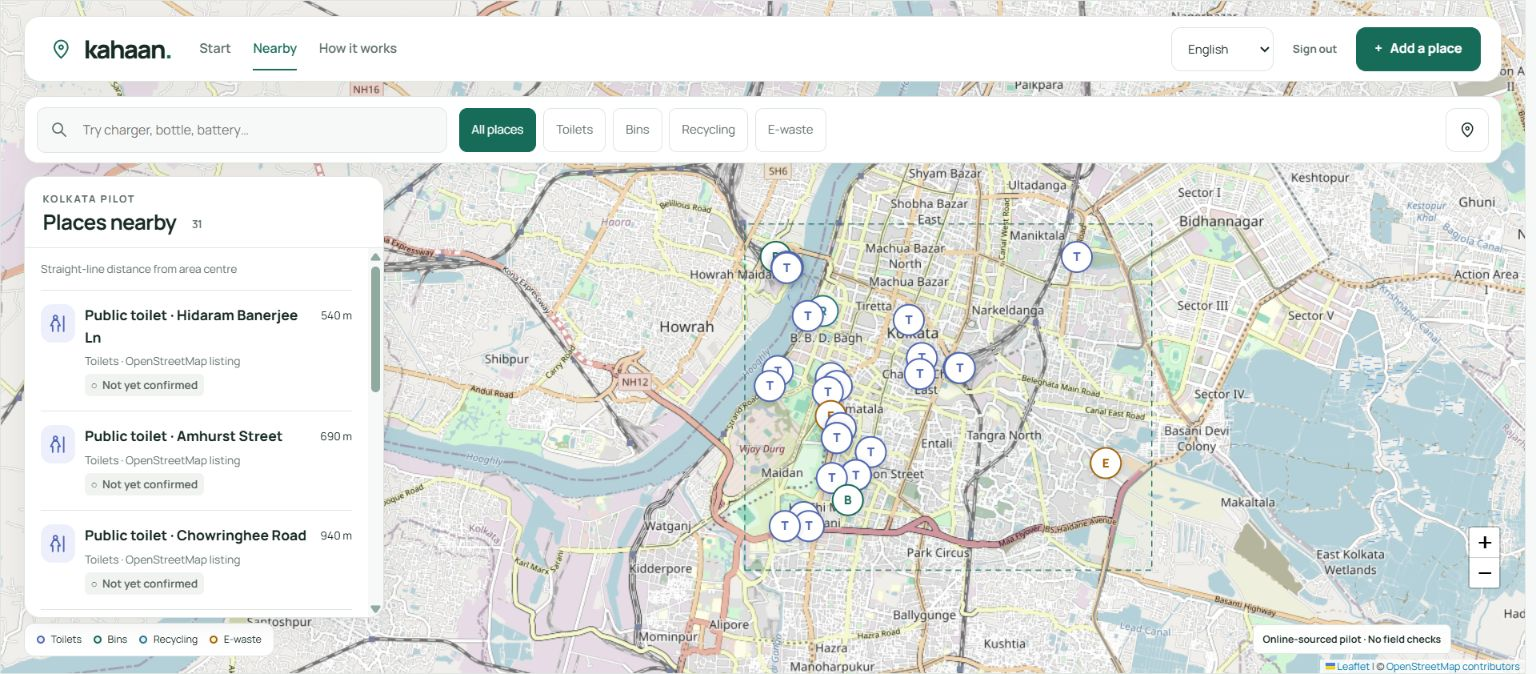
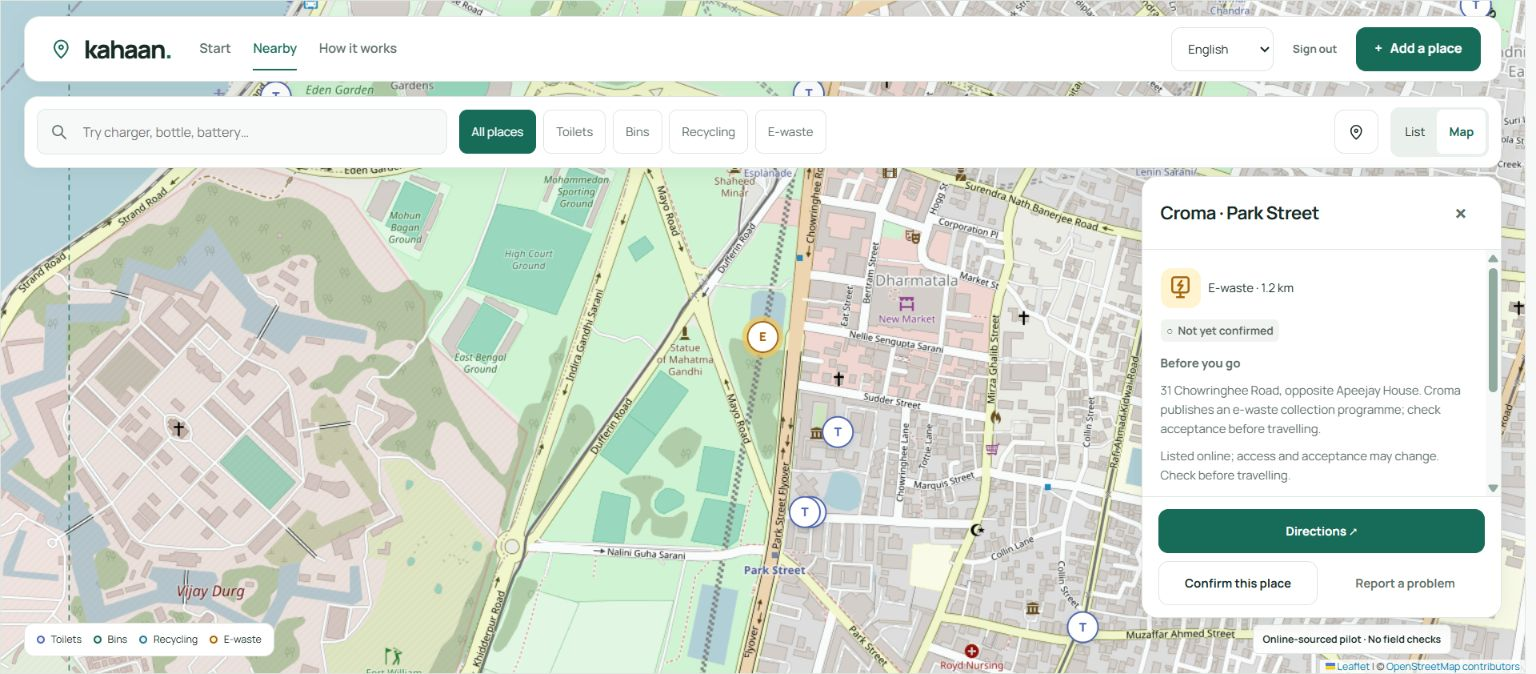
Fix Nearby mode dismissal, page scrolling and visible place actions

diff --git a/frontend/src/App.tsx b/frontend/src/App.tsx
@@ -63,6 +63,7 @@ export default function App() {
   const distance = (p: Point) => { const m = haversine(position, p); return m < 1000 ? `${new Intl.NumberFormat(locale).format(Math.round(m / 10) * 10)} m` : `${new Intl.NumberFormat(locale, { maximumFractionDigits: 1 }).format(m / 1000)} km`; };
   function choose(f: Filter) { setNotice(''); navigate('nearby', { filter: f, query: '' }); }
   function ensureUser(action: () => void) { if (user) action(); else { pending.current = action; setDetailOpen(false); setAuthOpen(true); } }
+  function switchView(next: 'list' | 'map') { setDetailOpen(false); setSelected(null); setView(next); }
   function pick(place: Place) { setView('map'); setSelected(place); setVoteError(''); setDetailOpen(true); }
   function update(place: Place) { setPlaces(old => old.some(p => p.placeId === place.placeId) ? old.map(p => p.placeId === place.placeId ? place : p) : [...old, place]); setSelected(place); }
   function locate() {
@@ -79,12 +80,13 @@ export default function App() {
   const sourceLabel = (place: Place) => t(place.source === 'osm' ? 'sourceOsm' : place.source === 'user' ? 'sourceCommunity' : 'sourcePublished');
   function placeRow(place: Place) { return <button key={place.placeId} className={`place-row ${selected?.placeId === place.placeId ? 'is-selected' : ''}`} onClick={() => pick(place)}><span className={`place-icon type-${place.type}`}><Icon type={place.type}/></span><span className="place-body"><span className="place-row-top"><strong>{place.name}</strong><span className="place-distance">{distance(place)}{place.approximate ? ' ≈' : ''}</span></span><span className="place-meta">{t(typeKeys[place.type])} · {sourceLabel(place)}</span><span className="place-trust"><Status place={place} locale={locale}/>{place.recommendable === false && <span className="access-note">{t('callFirst')}</span>}</span></span><span className="row-arrow" aria-hidden="true">↗</span></button>; }
   function searchBox(home = false) { return <form className={`search-area ${home ? 'home-search' : ''}`} noValidate onSubmit={e => { e.preventDefault(); navigate('nearby', {filter:'all'}); }}><label className="search-box"><Icon type="search" size={21}/><span className="sr-only">{t('search')}</span><input value={query} onChange={e => setQuery(e.target.value)} placeholder={t('placeholder')} type="search"/>{query && <button type="button" className="clear-search" aria-label={t('clear')} onClick={e => {setQuery('');e.currentTarget.parentElement?.querySelector('input')?.focus();}}>×</button>}{home && <Button type="submit" className="search-submit"><Icon type="arrow" size={20}/><span className="sr-only">{t('searchAction')}</span></Button>}</label><div className="quick-items">{['phone-charger','plastic-bottle','old-phone','aa-battery'].map(id => { const i = items.find(i => i.id === id); return i ? <button type="button" key={id} onClick={() => navigate('nearby', {query:itemText(i, locale).aliases[0] || itemText(i, locale).name,filter:'all'})}>{itemText(i, locale).aliases[0] || itemText(i, locale).name}</button> : null; })}</div></form>; }
-  function placeDetails(selected: Place) { return <><div className="detail-type"><span className={`place-icon type-${selected.type}`}><Icon type={selected.type}/></span><span>{t(typeKeys[selected.type])} · {distance(selected)}</span></div><Status place={selected} locale={locale}/><h3 className="section-label">{t('beforeGo')}</h3>{selected.note && <p className="facility-note">{selected.note}</p>}<p className="subtle">{t('caution')}</p>{selected.approximate && <p className="subtle">{t('approximate')}</p>}<h3 className="section-label">{t('communityChecks')}</h3><div className="vote-counts"><span>{selected.confirmCount} {t('confirms')}</span><span>{selected.reportCount} {t('reports')}</span></div>{selected.sourceUrl && <a className="source-link" href={selected.sourceUrl} target="_blank" rel="noreferrer">{t('source')} ↗ · {selected.researchDate || selected.sourceUpdatedAt?.slice(0, 10)}</a>}<p className="subtle">{t('trustHelp')}</p><p className="form-error" role="alert">{voteError && errorText(locale, voteError)}</p><div className="detail-actions"><a className="button" href={directionUrl(selected)} target="_blank" rel="noreferrer">{t('directions')} ↗</a><Button className="secondary" disabled={voteBusy} aria-busy={voteBusy} onClick={() => ensureUser(() => { setDetailOpen(true); void vote(selected, 'confirm'); })}>{voteBusy ? t('saving') : t('confirm')}</Button><Button className="text-button" disabled={voteBusy} onClick={() => ensureUser(() => { setDetailOpen(false); setVoteError(''); setReportOpen(true); })}>{t('report')}</Button></div></>; }
+  function placeDetails(selected: Place) { return <><div className="detail-type"><span className={`place-icon type-${selected.type}`}><Icon type={selected.type}/></span><span>{t(typeKeys[selected.type])} · {distance(selected)}</span></div><Status place={selected} locale={locale}/><h3 className="section-label">{t('beforeGo')}</h3>{selected.note && <p className="facility-note">{selected.note}</p>}<p className="subtle">{t('caution')}</p>{selected.approximate && <p className="subtle">{t('approximate')}</p>}{selected.sourceUrl && <a className="source-link" href={selected.sourceUrl} target="_blank" rel="noreferrer">{t('source')} ↗ · {selected.researchDate || selected.sourceUpdatedAt?.slice(0, 10)}</a>}<details className="community-details"><summary>{t('communityChecks')}</summary><div className="vote-counts"><span>{selected.confirmCount} {t('confirms')}</span><span>{selected.reportCount} {t('reports')}</span></div><p className="subtle">{t('trustHelp')}</p></details><p className="form-error" role="alert">{voteError && errorText(locale, voteError)}</p></>; }
+  function placeActions(selected: Place) { return <div className="detail-actions"><a className="button" href={directionUrl(selected)} target="_blank" rel="noreferrer">{t('directions')} ↗</a><Button className="secondary" disabled={voteBusy} aria-busy={voteBusy} onClick={() => ensureUser(() => { setDetailOpen(true); void vote(selected, 'confirm'); })}>{voteBusy ? t('saving') : t('confirm')}</Button><Button className="text-button" disabled={voteBusy} onClick={() => ensureUser(() => { setDetailOpen(false); setVoteError(''); setReportOpen(true); })}>{t('report')}</Button></div>; }
   const nav = <>{(['start','nearby','guide'] as const).map(page => <a key={page} href={routeHash({...route, screen:page})} aria-current={screen === page ? 'page' : undefined} onClick={e => {e.preventDefault();navigate(page);}}>{t(page === 'nearby' ? 'nearbyNav' : page)}</a>)}</>;
   return <>
     <a className="skip-link" href="#main-content" onClick={e => {e.preventDefault();screenHeading.current?.focus();}}>{t('skipContent')}</a>
     <header className={`site-header ${screen === 'nearby' ? 'map-header' : ''}`}><a className="brand" href="#/start" aria-label="Kahaan" onClick={e => {e.preventDefault();navigate('start');}}><span className="brand-mark"><Icon type="pin" size={23}/></span>kahaan<span className="brand-dot">.</span></a><nav className="desktop-nav" aria-label={t('navigation')}>{nav}</nav><div className="header-actions"><label className="locale-control"><span className="sr-only">{t('language')}</span><select aria-label={t('language')} value={locale} onChange={e => setLocale(e.target.value as Locale)}><option value="en">English</option><option value="bn">বাংলা</option><option value="hi">हिन्दी</option></select></label>{screen === 'nearby' && user && <Button className="text-button map-signout" onClick={() => void api.logout().then(() => setUser(null)).catch(() => setNotice('auth_error'))}>{t('signOut')}</Button>}<Button className="header-add" aria-label={t('add')} onClick={() => ensureUser(() => setAddOpen(true))}><span aria-hidden="true">+</span><span className="add-label">{t('add')}</span></Button></div></header>
-    <main id="main-content" className={`page-shell screen-${screen}`}>
+    <main id="main-content" className={`page-shell screen-${screen} ${screen === "nearby" ? `browse-${view}` : ""}`}>
       <div className="notice-region" aria-live="polite">{notice && <p className="notice">{t(notice as CopyKey)}</p>}</div>
       {screen === 'start' && loadError && <div className="home-load-error" role="alert"><p>{errorText(locale, loadError)}</p><Button className="secondary" onClick={() => void load()}>{t('retry')}</Button></div>}
       {screen === 'start' && <>
@@ -101,17 +103,17 @@ export default function App() {
           <div className="chips map-filters">{(['all', ...types] as const).map(f => <button className={filter === f ? 'chip-active' : ''} key={f} aria-pressed={filter === f} onClick={() => setFilter(f)}>{f === 'all' ? t('all') : t(typeKeys[f])}</button>)}</div>
           <label className="map-filter-select"><span className="sr-only">{t('type')}</span><select value={filter} onChange={e => setFilter(e.target.value as Filter)}>{(['all', 'bins', ...types] as const).map(f => <option key={f} value={f}>{f === 'all' ? t('all') : f === 'bins' ? t('bin') : t(typeKeys[f])}</option>)}</select></label>
           <Button className="secondary location-button" onClick={locate} disabled={locating} aria-busy={locating} aria-label={locating ? t('locating') : t('locate')}><Icon type="pin" size={18}/><span>{locating ? t('locating') : t('locate')}</span></Button>
-          <div className="view-switch"><button aria-pressed={view === 'list'} onClick={() => setView('list')}>{t('list')}</button><button aria-pressed={view === 'map'} onClick={() => setView('map')}>{t('map')}</button></div>
+          <div className="view-switch"><button aria-pressed={view === 'list'} onClick={() => switchView('list')}>{t('list')}</button><button aria-pressed={view === 'map'} onClick={() => switchView('map')}>{t('map')}</button></div>
         </div>
-        <section id="results" className="map-results-panel" aria-labelledby="results-title">
-          <div className="map-panel-heading"><div><span className="eyebrow">{t('pilotShort')}</span><h2 id="results-title">{t(filter === 'all' || filter === 'bins' ? 'nearby' : typeKeys[filter])} <span className="result-count">{new Intl.NumberFormat(locale).format(visible.length)}</span></h2></div><button className="sheet-toggle" aria-expanded={view === 'list'} onClick={() => setView(view === 'list' ? 'map' : 'list')}>{t(view === 'list' ? 'map' : 'list')} <Icon type="arrow" size={16}/></button></div>
+        {(view === "list" || query.trim() || loading || loadError) && <section id="results" className="map-results-panel" aria-labelledby="results-title">
+          <div className="map-panel-heading"><div><span className="eyebrow">{t('pilotShort')}</span><h2 id="results-title">{t(filter === 'all' || filter === 'bins' ? 'nearby' : typeKeys[filter])} <span className="result-count">{new Intl.NumberFormat(locale).format(visible.length)}</span></h2></div><button className="sheet-toggle" aria-expanded={view === 'list'} onClick={() => switchView(view === 'list' ? 'map' : 'list')}>{t(view === 'list' ? 'map' : 'list')} <Icon type="arrow" size={16}/></button></div>
           <div className="map-panel-content">
             {query.trim() && <section className="item-answer" aria-live="polite">{item ? <><div className="answer-main"><span className="category-label">{t(item.category as CopyKey)}</span><h2>{itemText(item, locale).name}</h2><p>{itemText(item, locale).tip}</p>{matches.length > 1 && <div className="quick-items">{matches.slice(1).map(i => <button key={i.id} onClick={() => setQuery(itemText(i, locale).name)}>{itemText(i, locale).name}</button>)}</div>}</div><div className="answer-place"><span className="eyebrow">{t('selected')}</span>{destination ? <><strong>{destination.name}</strong><span>{distance(destination)} · {origin ? t('yourDistance') : t('centre')}</span><p>{t('caution')}</p><a className="button" href={directionUrl(destination)} target="_blank" rel="noreferrer">{t('directions')} ↗</a></> : <><strong>{t('empty')}</strong><p>{t('noPublic')}</p><Button className="secondary" onClick={() => ensureUser(() => setAddOpen(true))}>{t('add')}</Button></>}</div></> : <><div><h2>{t('unknown')}</h2><p>{t('unknownHelp')}</p><div className="chips">{['ewaste','dry','wet','sanitary_medical','hazardous'].map(c => <button key={c} onClick={() => { const i = items.find(i => i.category === c); if (i) setQuery(itemText(i, locale).name); }}>{t(c as CopyKey)}</button>)}</div></div></>}</section>}
             <p className="distance-origin">{origin ? t('yourDistance') : t('centre')}</p>{loading ? <div className="empty-state" role="status"><span className="loader"/>{t('loading')}</div> : loadError ? <div className="empty-state" role="alert"><h3>{errorText(locale, loadError)}</h3><Button onClick={() => void load()}>{t('retry')}</Button></div> : visible.length ? <><div className="place-list">{visible.slice(0, limit).map(placeRow)}</div>{limit < visible.length && <Button className="secondary load-more" onClick={() => setLimit(n => n + 8)}>{t('loadMore')}</Button>}</> : <div className="empty-state"><Icon type="pin" size={36}/><h3>{t('empty')}</h3><p>{t('emptyHelp')}</p><Button onClick={() => ensureUser(() => setAddOpen(true))}>＋ {t('add')}</Button></div>}
             {demoMode && <div className="demo-banner">{t('demo')}</div>}
           </div>
-        </section>
-        {detailOpen && selected && <PlacePanel title={selected.name} locale={locale} onClose={() => setDetailOpen(false)}>{placeDetails(selected)}</PlacePanel>}
+        </section>}
+        {detailOpen && selected && <PlacePanel actions={placeActions(selected)} title={selected.name} locale={locale} onClose={() => setDetailOpen(false)}>{placeDetails(selected)}</PlacePanel>}
         <div className="workspace-legend">{types.map(type => <span key={type}><i className={`legend-dot type-${type}`}/>{t(typeKeys[type])}</span>)}</div>
       </section>}
       {screen === 'guide' && <section className="guide-page"><div className="guide-intro"><span className="eyebrow">{t('guide')}</span><h1 ref={screenHeading} tabIndex={-1}>{t('guideTitle')}</h1><p>{t('guideIntro')}</p><Button onClick={() => navigate('nearby')}>{t('browseAll')} <Icon type="arrow" size={18}/></Button></div><div className="guide-sections"><article><span className="guide-number" aria-hidden="true">01</span><div><h2>{t('sourcesTitle')}</h2><p>{t('sourcesHelp')}</p><p className="guide-caution">{t('caution')}</p></div></article><article><span className="guide-number" aria-hidden="true">02</span><div><h2>{t('communityChecks')}</h2><p>{t('trustHelp')}</p><div className="trust-examples">{(['unverified','verified','reported'] as const).map(status => <span key={status} className={`status status-${status}`}>{t(status)}</span>)}</div></div></article><article><span className="guide-number" aria-hidden="true">03</span><div><h2>{t('contributeTitle')}</h2><p>{t('contributeHelp')}</p><Button onClick={() => ensureUser(() => setAddOpen(true))}>+ {t('add')}</Button></div></article></div></section>}
@@ -119,7 +121,7 @@ export default function App() {
       <footer><span>kahaan. <span className="footer-location">Kolkata</span></span><button className="plain-link" onClick={() => navigate('guide')}>{t('onlineOnly')}</button>{user && <Button className="text-button" onClick={() => void api.logout().then(() => setUser(null)).catch(() => setNotice('auth_error'))}>{t('signOut')}</Button>}</footer></>}
     </main>
     <nav className="mobile-nav" aria-label={t('navigation')}>{nav}</nav>
-    {detailOpen && selected && screen !== 'nearby' && <Dialog className="place-detail-dialog" title={selected.name} locale={locale} onClose={() => setDetailOpen(false)}>{placeDetails(selected)}</Dialog>}
+    {detailOpen && selected && screen !== 'nearby' && <Dialog className="place-detail-dialog" title={selected.name} locale={locale} onClose={() => setDetailOpen(false)}>{placeDetails(selected)}{placeActions(selected)}</Dialog>}
     {authOpen && <AuthDialog locale={locale} onClose={() => { pending.current = null; setAuthOpen(false); }} onSuccess={name => { setUser(name); setAuthOpen(false); const action = pending.current; pending.current = null; action?.(); }}/>}
     {addOpen && <AddDialog locale={locale} places={places} origin={origin} onClose={() => setAddOpen(false)} onSaved={p => { navigate('nearby', {filter:'all',query:''}); update(p); setAddOpen(false); setNotice('saved'); setDetailOpen(true); }}/>}
     {reportOpen && selected && <ReportDialog locale={locale} busy={voteBusy} error={voteError} onClose={() => setReportOpen(false)} onSave={reason => void vote(selected, 'report', reason)}/>}

diff --git a/frontend/src/styles.css b/frontend/src/styles.css
@@ -469,3 +469,49 @@ textarea { resize: none; line-height: 1.6; }
   .workspace-list .place-row-top strong { font-size: 14px; }
   .workspace-list .place-meta { font-size: 12px; }
 }
+
+/* Nearby recovery: clear map, document-scrolling list, always-visible actions. */
+.map-toolbar .view-switch { display: flex; margin: 0; flex-shrink: 0; }
+.map-detail-panel { top: auto; height: auto; max-height: min(480px, calc(100dvh - 232px)); }
+.map-detail-panel .dialog-body { flex: 1; }
+.map-detail-panel .detail-type { margin: 0 0 8px; gap: 8px; }
+.map-detail-panel .section-label { margin: 12px 0 4px; }
+.map-detail-panel p { margin: 8px 0; line-height: 1.6; }
+.map-detail-panel .source-link { margin-top: 8px; }
+.place-panel-actions { flex-shrink: 0; padding: 12px 16px; border-top: 1px solid var(--border); background: var(--surface); }
+.place-panel-actions .detail-actions { display: grid; grid-template-columns: 1fr 1fr; gap: 8px; margin: 0; padding: 0; border: 0; }
+.place-panel-actions .detail-actions .button { font-size: 12px; padding: 10px 8px; }
+.place-panel-actions .detail-actions .button:first-child { grid-column: 1 / -1; }
+.community-details { margin-top: 16px; border-top: 1px solid var(--border); padding-top: 12px; }
+.community-details summary { cursor: pointer; min-height: 44px; display: flex; align-items: center; font-size: 12px; font-weight: 700; }
+.community-details summary::after { content: '+'; margin-left: auto; }
+.community-details[open] summary::after { content: '\2212'; }
+.screen-nearby.browse-list { position: relative; inset: auto; height: auto; min-height: 100dvh; padding-top: 96px; isolation: auto; }
+.workspace-list.map-workspace { position: relative; inset: auto; height: auto; padding: 0 24px 80px; background: var(--background); }
+.workspace-list .workspace-map { position: fixed; height: 100dvh; visibility: hidden; }
+.workspace-list .map-toolbar { position: sticky; top: 96px; left: auto; right: auto; }
+.workspace-list .map-results-panel { position: static; width: 100%; height: auto; max-height: none; overflow: visible; border: 0; border-radius: 0; box-shadow: none; background: transparent; margin-top: 24px; }
+.workspace-list .map-panel-heading { padding: 0 0 12px; border: 0; }
+.workspace-list .map-panel-content { overflow: visible; padding: 0; }
+.workspace-list .place-list { display: grid; grid-template-columns: repeat(3, minmax(0, 1fr)); gap: 16px; padding: 8px 0 16px; }
+.workspace-list .place-row { border: 1px solid var(--border); border-radius: 12px; background: var(--surface); padding: 16px; }
+.workspace-list .place-row-top strong { font-size: 14px; }
+.workspace-list .place-meta { font-size: 12px; }
+.workspace-list .workspace-legend { display: none; }
+.workspace-map .leaflet-control-zoom { margin-bottom: 70px; }
+@media (min-width: 761px) and (max-width: 1100px) {
+  .workspace-list .place-list { grid-template-columns: repeat(2, minmax(0, 1fr)); }
+  .map-toolbar .search-area { min-width: 120px; }
+}
+@media (max-width: 760px) {
+  .screen-nearby.browse-list { padding-top: 80px; }
+  .workspace-list.map-workspace { padding: 0 12px calc(96px + env(safe-area-inset-bottom)); }
+  .workspace-list .map-toolbar { top: 80px; }
+  .workspace-list .map-results-panel { margin-top: 24px; }
+  .workspace-list .place-list { grid-template-columns: 1fr; gap: 12px; }
+  .map-detail-panel { position: fixed; height: auto; max-height: calc(100dvh - 294px - env(safe-area-inset-bottom)); }
+  .map-detail-panel .dialog-body { padding: 12px 14px; }
+  .place-panel-actions { padding: 10px 12px; }
+  .workspace-map .leaflet-control-zoom { margin-bottom: calc(92px + env(safe-area-inset-bottom)); }
+  .has-detail .workspace-map .leaflet-control-zoom { display: none; }
+}

diff --git a/frontend/src/components.tsx b/frontend/src/components.tsx
@@ -14,7 +14,7 @@ export function Dialog({ title, children, onClose, locale, className = '' }: { c
   return <dialog className={className} ref={ref} aria-labelledby={titleId} onCancel={e => { e.preventDefault(); onClose(); }}><div className="dialog-head"><h2 id={titleId}>{title}</h2><Button className="icon-button" onClick={onClose} aria-label={text(locale, 'close')}>×</Button></div><div className="dialog-body">{children}</div></dialog>;
 }
 // A modeless map detail panel: keep the map and results keyboard-operable.
-export function PlacePanel({ title, children, onClose, locale }: { title: string; children: ReactNode; onClose: () => void; locale: Locale }) {
+export function PlacePanel({ title, children, actions, onClose, locale }: { title: string; children: ReactNode; actions: ReactNode; onClose: () => void; locale: Locale }) {
   const ref = useRef<HTMLElement>(null), heading = useRef<HTMLHeadingElement>(null), titleId = useId();
   const close = useRef(onClose); close.current = onClose;
   const previousFocus = useRef<HTMLElement | null>(null);
@@ -27,9 +27,11 @@ export function PlacePanel({ title, children, onClose, locale }: { title: string
       if (event.key === 'Escape' && !document.querySelector('dialog[open]')) { event.preventDefault(); dismiss(); }
     };
     document.addEventListener('keydown', escape);
-    return () => { document.removeEventListener('keydown', escape); if (panel?.contains(document.activeElement) && previous?.isConnected) previous.focus({ preventScroll: true }); };
+    const outside = (event: PointerEvent) => { const target = event.target as Element; if (!document.querySelector('dialog[open]') && !panel?.contains(target) && !target.closest('.facility-marker, .place-row, .locale-control')) close.current(); };
+    document.addEventListener('pointerdown', outside);
+    return () => { document.removeEventListener('keydown', escape); document.removeEventListener('pointerdown', outside); if (panel?.contains(document.activeElement) && previous?.isConnected) previous.focus({ preventScroll: true }); };
   }, []);
-  return <section className="map-detail-panel" ref={ref} aria-labelledby={titleId}><div className="dialog-head"><h2 id={titleId} ref={heading} tabIndex={-1}>{title}</h2><Button className="icon-button" onClick={dismiss} aria-label={text(locale, 'close')}>×</Button></div><div className="dialog-body">{children}</div></section>;
+  return <section className="map-detail-panel" ref={ref} aria-labelledby={titleId}><div className="dialog-head"><h2 id={titleId} ref={heading} tabIndex={-1}>{title}</h2><Button className="icon-button" onClick={dismiss} aria-label={text(locale, 'close')}>×</Button></div><div className="dialog-body">{children}</div><div className="place-panel-actions">{actions}</div></section>;
 }
 export function Icon({ type, size = 28 }: { type: PlaceType | 'pin' | 'search' | 'arrow'; size?: number }) {
   const paths = {

diff --git a/frontend/src/Map.tsx b/frontend/src/Map.tsx
@@ -16,7 +16,7 @@ function Events({ point, onPin, immersive, places }: { point?: Point | null; onP
     } else if (immersive) {
       const mobile = matchMedia('(max-width: 760px)').matches;
       const bounds: [number, number][] = places.length ? places.map(p => [p.lat, p.lng]) : [[area.bbox.south, area.bbox.west], [area.bbox.north, area.bbox.east]];
-      map.fitBounds(bounds, { maxZoom: places.length === 1 ? 16 : area.zoom, paddingTopLeft: mobile ? [24, Math.min(220, map.getSize().y * .28)] : [410, 180], paddingBottomRight: mobile ? [24, Math.min(280, map.getSize().y * .35)] : [60, 70], animate: false });
+      map.fitBounds(bounds, { maxZoom: places.length === 1 ? 16 : area.zoom, paddingTopLeft: mobile ? [24, Math.min(220, map.getSize().y * .28)] : [24, 180], paddingBottomRight: mobile ? [24, Math.min(100, map.getSize().y * .15)] : [60, 70], animate: false });
     }
     };
     applyView(!matchMedia('(prefers-reduced-motion: reduce)').matches);

diff --git a/DESIGN.md b/DESIGN.md
@@ -45,7 +45,7 @@ Leaf green conveys wayfinding. Yellow highlights electronics without turning unc
 Self-hosted variable Manrope carries English display and body text with deliberate weight and tracking. Nirmala UI carries Bengali and Devanagari when unavailable in Manrope. Font-display swap and a local font avoid third-party font calls; the SIL Open Font License is shipped with the asset. Localized body text uses generous line height and wraps rather than truncates.
 
 ## Layout
-Three hash-routed views: Start, Nearby and How it works. Desktop Start uses an asymmetric introduction/map split; Nearby uses a full viewport Kolkata map with floating search/type/location controls, a nearest-first results panel and a separate modeless place panel. Mobile Start prioritizes compact need choices; Nearby has List/Map controls, a full-page card list and a compact map results sheet, and a persistent three-link bottom navigation connects views. Start and How it works use natural document scrolling. Nearby owns a fixed viewport with independently scrollable panels and preserved map attribution. Maximum content width 1280px; breakpoint 760px; 8px spacing rhythm.
+Three hash-routed views: Start, Nearby and How it works. Desktop Start uses an asymmetric introduction/map split; Nearby uses a full viewport Kolkata map with floating search/type/location controls, an optional search-guidance panel and a compact modeless place panel. Mobile Start prioritizes compact need choices; Nearby has List/Map controls, a document-scrolling card list and a clear map canvas, and a persistent three-link bottom navigation connects views. Start and How it works use natural document scrolling. Nearby Map owns a fixed viewport with preserved attribution. Nearby List uses natural page scrolling without a containing panel. Place details have a scrollable body and a pinned action footer. Maximum content width 1280px; breakpoint 760px; 8px spacing rhythm.
 
 ## Elevation & Depth
 Flat cards with borders. Light shadows separate floating map controls, place panels and modal overlays from the map.
@@ -60,4 +60,4 @@ Shared Button, Field, Dialog, PlacePanel and Status primitives. Visible focus ri
 Show source, distance origin and uncertainty. Use “Community confirmed” for vote-derived status. Do not infer opening hours, cleanliness or authorisation from a marker. Keep contributed text in its original language. Every main action has all three translations.
 
 ## Nearby map direction
-The owner approved the Bangalore Startup Map reference on 11 October 2026. Borrow its full map canvas and floating control hierarchy; retain Kahaan branding and existing OpenStreetMap tiles. Desktop results sit left and details right. At intermediate widths, selected details replace results. Mobile List switches to a full-page single-column card surface, matching the reference Grid behavior. Map restores the map and compact results sheet. Selecting a card returns to Map with details above persistent navigation. Markers use letters, type colours and localized accessible names; Enter/Space selects. Search and category changes close stale details. Existing source warnings and item guidance remain in the scrollable results panel. No new dependencies or AWS resources.
+The owner approved the Bangalore Startup Map reference on 11 October 2026. Borrow its full map canvas and floating control hierarchy; retain Kahaan branding and existing OpenStreetMap tiles. Map shows no persistent nearby-results panel; List owns nearest-first cards on desktop and mobile. Details sit right on desktop. At intermediate widths, selected details replace results. Mobile List switches to a full-page single-column card surface, matching the reference Grid behavior. Map restores the clear map canvas. Selecting a card returns to Map with details above persistent navigation. Markers use letters, type colours and localized accessible names; Enter/Space selects. Search and category changes close stale details. Existing source warnings and item guidance remain in the scrollable results panel. No new dependencies or AWS resources.

diff --git a/UX-CONTRACT.md b/UX-CONTRACT.md
@@ -24,4 +24,4 @@ No success or error is conveyed by colour alone. Dialog uses showModal with nati
 Start prioritizes need choices; Nearby owns item guidance and results. Item-matched result lists show relevant accepted-item destinations instead of unrelated facilities. Unknown item input retains category fallback. How it works explains bounded sources and community trust without adding product capabilities. Source and unresolved access labels are visible in list rows. Place details separate practical notes, source and community checks. Contribution uses one shared responsive Dialog with desktop map/form columns; manual coordinates are an optional disclosure, automatically opened when coordinate validation requires focus.
 
 ## Map workspace
-Nearby uses PlacePanel for modeless details. Opening focuses the heading; Escape and Close restore focus to the connected trigger when focus is inside the panel. Typing elsewhere does not steal focus on dismissal. Native auth/add/report dialogs remain modal and own Escape while open. Enter and Space select accessible type markers. Details retain source, uncertainty, directions and gated community actions. Mobile List shows a full-page single-column card surface and hides the map; Map restores the map and compact results sheet. The map stays mounted to preserve its state. Selecting a card returns to Map with details. Selecting a place replaces the mobile results sheet. All panels scroll independently and attribution remains visible. Search/category changes close details and reset the visible count; locale changes retain query/selection and update marker labels.
+Nearby uses PlacePanel for modeless details. Opening focuses the heading; Escape and Close restore focus to the connected trigger when focus is inside the panel. Typing elsewhere does not steal focus on dismissal. Native auth/add/report dialogs remain modal and own Escape while open. Enter and Space select accessible type markers. Details retain source, uncertainty, directions and gated community actions. Mobile List shows a full-page single-column card surface and hides the map; Map restores the clear map canvas. The map stays mounted to preserve its state. Selecting a card returns to Map with details. Selecting a place opens the compact mobile detail panel. List uses document scrolling and unboxed results. Switching List/Map dismisses details and clears selection. Clicking outside details dismisses them unless a native dialog is open. Directions, Confirm and Report stay visible in a pinned footer; practical notes and source stay in the scrollable body, while community checks use a disclosure. Map retains attribution. Search/category changes close details and reset the visible count; locale changes retain query/selection and update marker labels.

diff --git a/docs/VERIFICATION.md b/docs/VERIFICATION.md
@@ -58,3 +58,9 @@ Demo cost preparation: API throttle lowered to 5 req/s, burst 10; stack-managed 
 - The frontend was deployed to the existing Amplify demo. Live checks showed 31 records, Croma guidance and zero community counters, keyboard details and Bengali mobile controls. No new backend resources or data were introduced.
 
 - Final review moved selection clearing into search/filter/navigation actions so a newly saved contribution remains selected after its route changes. Mobile card selection returns to Map with details. Full-page List mode was checked at 390px and in Hindi at 360px without horizontal overflow.
+
+## Map/list/detail usability corrections
+
+Local Chrome checks covered a clear Map without the nearby-results overlay, document-scrolling List with 31 source records, a three-column desktop card grid, mode-switch and outside-pointer dismissal, Enter/Escape and focus restoration, and pinned Directions/Confirm/Report actions on desktop and at 360x740 and 360x640. Bengali/Hindi footer actions remained within the short viewport; language switching preserved selection. Expanding community checks did not move the action footer. Signed-out confirmation opened the existing local auth dialog and Escape cancelled it. No field testing, physical-device testing, native-language review or independent cloud voting is claimed.
+
+Final correction checks: all 18 tests, TypeScript and release build passed; strict UI audit zero findings; design-document lint zero errors and five existing unused-token warnings. Existing Amplify demo deployed the release. Live Chrome verified desktop/mobile pinned footer, List switch dismissal, natural list overflow, clear Map, outside dismissal, and no warning/error logs in the checked flow. Backend resources and source records were unchanged.

diff --git a/docs/UX-POLISH.md b/docs/UX-POLISH.md
@@ -33,3 +33,6 @@ Check desktop and 360–390px mobile Start/Nearby/Guide, all three locales, filt
 The owner supplied [Bangalore Startup Map](https://www.bangalorestartupmap.com/) as a live browser reference and approved this direction. Nearby now has a full viewport map, floating search and type controls, compact nearest-first results and separate modeless details. The reference mobile Map and Grid modes were also inspected. Mobile List now shows full-page single-column cards; Map restores the map with compact results. Card selection returns to Map with details. Existing provenance, trust rules, item guidance and contribution gating remain. Start and How it works retain their document layouts.
 
 Final map revision: all 18 tests, TypeScript and production build passed. Strict UI audit: zero findings. Design-document lint: zero errors, five existing unused-token warnings. Browser verification and remaining limits are recorded in VERIFICATION.md.
+
+## Usability correction
+Removed the permanent nearby-results overlay from Map. List now uses document scrolling with unboxed cards on mobile and a responsive desktop grid. Switching modes and clicking outside dismiss place details. Compact detail panels keep Directions and community actions in a pinned footer; community evidence expands separately. No backend or data changes.

diff --git a/README.md b/README.md
@@ -22,7 +22,7 @@ Finding a facility is only useful if you can understand what it is, where its in
 
 Start, Nearby and How it works are separate views. Search/filter URLs survive refresh and browser navigation. Location permission is optional; without it, distance is measured from the pilot centre. No runtime AI calls are used.
 
-![Nearby: floating search controls, sourced results and the Kolkata map](docs/images/nearby.png)
+![Nearby: a clear Kolkata map and compact details with visible directions](docs/images/nearby.png)
 
 ## Run locally
 
